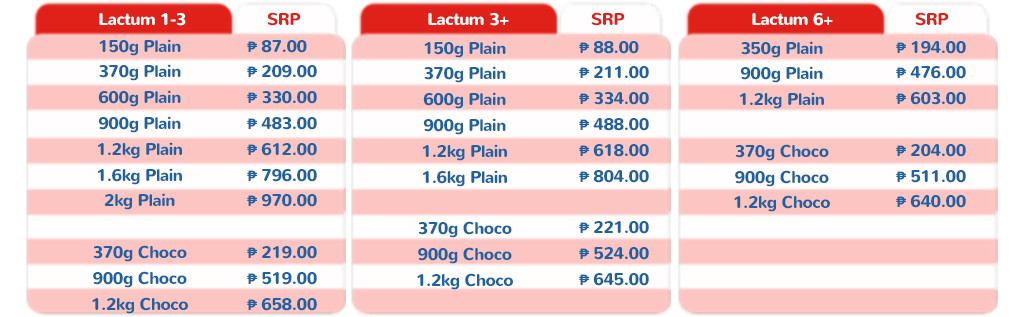
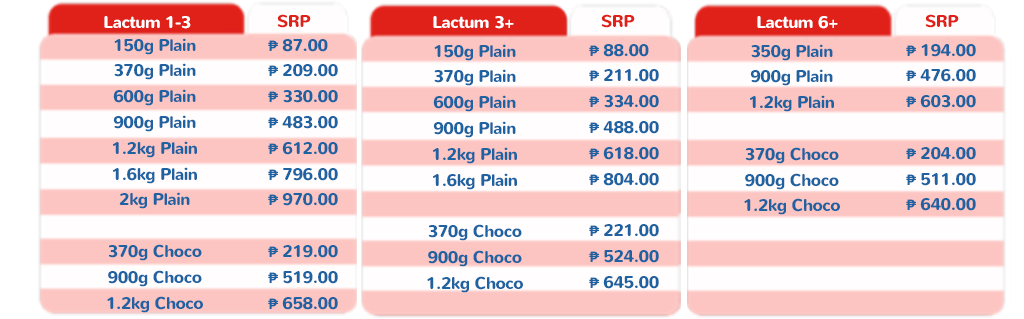
Changes made by Rock Torz (torz@hotmail.ph).

diff --git a/Lactum Detailer/css/main.css b/Lactum Detailer/css/main.css
@@ -168,9 +168,9 @@ a,img { border: 0;outline-width:0;}
 #s8 .s8e.anim { width:660px}
 
 /*SLIDE9*/
-#s9 .s9a {display: block; position: absolute; height:288px; width:759px; left:110px;top: 39px;background: url('images/s9a.png') left top no-repeat;}
+#s9 .s9a {display: block; position: absolute; height:348px; width:1024px; left:0;top: 0;background: url('images/s9a.png') left top no-repeat;}
 
-#s9 .s9b {display: block; position: absolute; height:317px; width:0; left:0px;top:352px;background: url('images/s9b.png');-moz-transition:width 0.5s;-webkit-transition:width 0.5s;transition:width 0.5s }
+#s9 .s9b {display: block; position: absolute; height:319px; width:0; left:0px;top:352px;background: url('images/s9b.png');-moz-transition:width 0.5s;-webkit-transition:width 0.5s;transition:width 0.5s}
 #s9 .s9b.anim { width:1024px}
 
 #s9 i { display: block; width: 141px;height: 768px; position: absolute;left: -141px;background: url('images/glow1.png') ; top:0px;-moz-transition:0.5s;-webkit-transition:0.5s;transition:0.5s}
@@ -238,7 +238,6 @@ a,img { border: 0;outline-width:0;}
 .ina1 { display: block;position: absolute;width: 231px;height: 275px;overflow: hidden;left: 48px;top:109px ;z-index: 999;background: #000;opacity: 0; cursor: pointer;}
 .ina2 { display: block;position: absolute;width: 221px;height: 276px;overflow: hidden;left: 744px;top:109px ;z-index: 999;background: #000;opacity: 0; cursor: pointer;}
 .ina3 { display: block;position: absolute;;width: 228px;height: 275px;overflow: hidden;left:398px;top:448px ;z-index: 999;background: #000;opacity: 0; cursor: pointer;}
-
 
 
 
